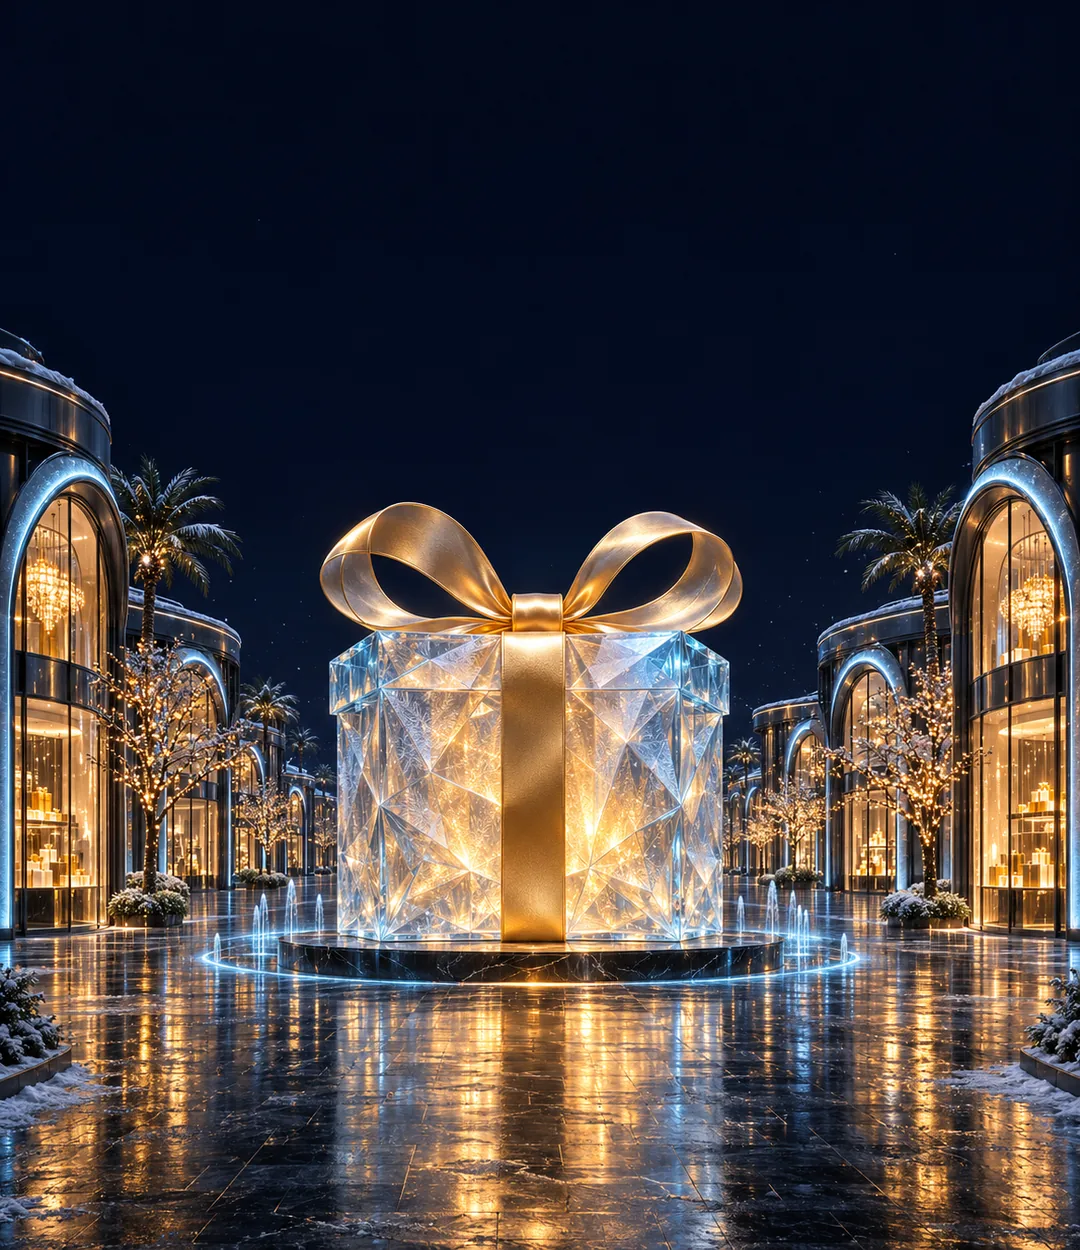
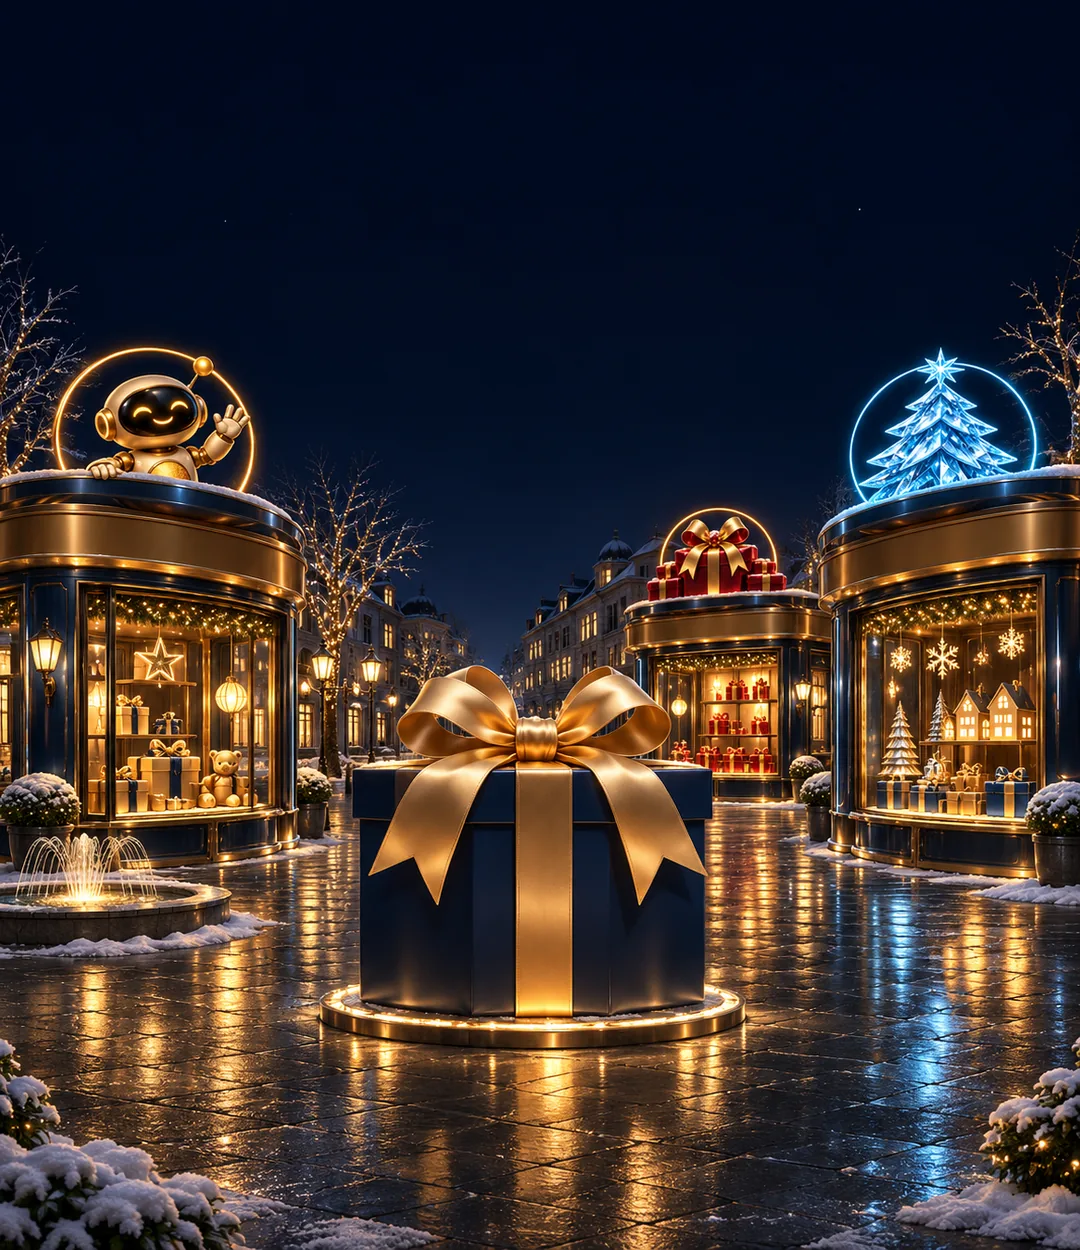
Nieuwe welkomstbanners (Nova) en een klein licht/donker-knopje in de kop (bouw volgt)
Claude-Session: https://claude.ai/code/session_014hCdRwFh3Gb6k4dNokQqAr

diff --git a/sjabloon.html b/sjabloon.html
@@ -29,12 +29,12 @@
   <link rel="preload" as="font" type="font/woff2" href="assets/fonts/manrope-600-latin.woff2" crossorigin>
   <link rel="preload" as="font" type="font/woff2" href="assets/fonts/playfair-display-500-latin.woff2" crossorigin>
   <link rel="stylesheet" href="assets/css/fonts.css">
-  <link rel="preload" as="script" href="assets/js/app.js?v=120497682121664" fetchpriority="high">
+  <link rel="preload" as="script" href="assets/js/app.js?v=128719811000733" fetchpriority="high">
   <link rel="preload" as="script" href="assets/js/data.js?v=177080654016218" fetchpriority="high">
   <link rel="preload" as="image" href="images/banners/banner-home-2026-mobiel.webp" media="(max-width: 759px)">
   <link rel="preload" as="image" href="images/banners/banner-home-2026-desktop.webp" media="(min-width: 760px)">
   <link rel="stylesheet" href="assets/css/stijl.css?v=262573359707277">
-  <link rel="stylesheet" href="assets/css/licht.css?v=195133312633918">
+  <link rel="stylesheet" href="assets/css/licht.css?v=114365066024980">
   <link rel="stylesheet" href="assets/css/straat.css?v=39420314589419">
   <!-- Snelheid (31-10-2026): de grote productlijst laadt los van de pagina (async, lage prioriteit): de tekst en foto's staan al in de HTML.
        app.js start pas als de lijst er is (seintje 'lk-producten' aan het eind van het bestand). -->
@@ -99,7 +99,7 @@
        Eerst alleen met ?proef=combi, nu voor iedereen (zie hieronder): de kop zoals hij was (aftellen, menu, logo, hartje, onderbalk) met de winkels eronder,
        en een donkere versie die de instelling van de telefoon of computer volgt (keuze in het menu: Automatisch, Licht of Donker; ook ?thema=donker|licht|auto).
        Het donkere bestand laadt alleen als de donkere versie aan staat. -->
-  <meta name="lk-donker" content="assets/css/donker.css?v=138893497131260">
+  <meta name="lk-donker" content="assets/css/donker.css?v=161265632977576">
   <!-- LIVE voor iedereen sinds 22-11-2026 09:18 (Marius: 'Dit is fantastisch go'). Zelf de lichte kop van 21-11 zien: ?proef=combi-uit (blijft onthouden; weer aan: ?proef=combi).
        Helemaal uit: window.LK_COMBI = false. -->
   <script>(function () { try { var h = document.documentElement, q = location.search, ls = null, uit = false;
@@ -118,7 +118,7 @@
        binnenkanten en rondjes van Nova. VOOR IEDEREEN AAN sinds 23-11-2026 (Marius: 'zet live als die klaar is'). Zelf de oude site zien: ?proef=nacht-uit (blijft onthouden; weer aan: ?proef=nacht).
        Wie in het menu bij Weergave zelf 'Licht' koos, krijgt de oude lichte site. Helemaal uit: window.LK_NACHT = false.
        Zet de donkere versie aan en laadt daarna nacht.css en nacht.js (wissel van de rondjes). Code: blok NACHT in straat.js. -->
-  <meta name="lk-nacht" content="assets/css/nacht.css?v=181005825452950">
+  <meta name="lk-nacht" content="assets/css/nacht.css?v=29087338344376">
   <meta name="lk-nacht-js" content="assets/js/nacht.js?v=150313274471501">
   <script>(function () { try { var h = document.documentElement, q = location.search, ls = null, aan = false;
     try { ls = window.localStorage; } catch (e) {}
@@ -182,6 +182,7 @@
 
       <div class="header-rechts">
         <a class="icoonknop alleen-desk" href="/zoek" aria-label="Zoeken" data-ic="zoek"></a>
+        <button type="button" class="icoonknop lichtknop" data-lichtknop aria-label="Lichte of donkere weergave" title="Licht of donker"><svg class="lk-zon" viewBox="0 0 24 24" width="20" height="20" fill="none" stroke="currentColor" stroke-width="1.8" stroke-linecap="round" aria-hidden="true"><circle cx="12" cy="12" r="4"/><path d="M12 2.5v2M12 19.5v2M4.6 4.6l1.4 1.4M18 18l1.4 1.4M2.5 12h2M19.5 12h2M4.6 19.4 6 18M18 6l1.4-1.4"/></svg><svg class="lk-maan" viewBox="0 0 24 24" width="19" height="19" fill="none" stroke="currentColor" stroke-width="1.8" stroke-linejoin="round" aria-hidden="true"><path d="M20 14.5A8 8 0 0 1 9.5 4a8 8 0 1 0 10.5 10.5Z"/></svg></button>
         <a class="icoonknop" href="/favorieten" aria-label="Mijn lijstje">
           <span data-ic="hart"></span>
           <span class="teller" data-favteller hidden>0</span>
@@ -281,8 +282,8 @@
   <script src="assets/js/data.js?v=177080654016218"></script>
   <script src="assets/js/teksten.js?v=248022023955020"></script>
   <script src="assets/js/gedeeld.js?v=40886362110320"></script>
-  <script src="assets/js/straat.js?v=42406514725526"></script>
-  <script src="assets/js/app.js?v=120497682121664"></script>
+  <script src="assets/js/straat.js?v=150366574996584"></script>
+  <script src="assets/js/app.js?v=128719811000733"></script>
   <!-- Bezoekersteller: GoatCounter (Nederlands, gratis, zonder cookies, bewaart geen persoonsgegevens).
        Telt de eerste pagina zelf; elke volgende pagina binnen de site telt app.js via 'lk-route'. -->
   <script data-goatcounter="https://leukekeuze.goatcounter.com/count" async src="//gc.zgo.at/count.js"></script>

diff --git a/assets/js/app.js b/assets/js/app.js
@@ -4383,6 +4383,17 @@
       if (nAan !== document.documentElement.classList.contains('nacht')) { location.reload(); return; } } catch (x3) {}
     themaZetten(); try { if (window.goatcounter && window.goatcounter.count) window.goatcounter.count({ path: 'weergave/' + b.getAttribute('data-thema'), title: 'Weergave', event: true }); } catch (x2) {}
   });
+  /* LICHTKNOP (24-11-2026, Marius: 'maak een makkelijke licht-knop op de site, subtiel, klein maar fijn'): zon/maan in de kop wisselt tussen de boulevard (donker) en de lichte site */
+  document.addEventListener('click', function (e) {
+    var b = e.target.closest && e.target.closest('[data-lichtknop]'); if (!b) return;
+    var naarLicht = document.documentElement.classList.contains('nacht') || document.documentElement.classList.contains('donker');
+    try {
+      if (naarLicht) { localStorage.setItem('lkthema', 'licht'); localStorage.setItem('lknacht', '0'); }
+      else { localStorage.setItem('lkthema', 'donker'); localStorage.removeItem('lknacht'); }
+    } catch (x) {}
+    try { if (window.goatcounter && window.goatcounter.count) window.goatcounter.count({ path: 'weergave/knop-' + (naarLicht ? 'licht' : 'donker'), title: 'Weergave', event: true }); } catch (x2) {}
+    setTimeout(function () { location.reload(); }, 80);
+  });
   function themaKnoppen() {
     if (!COMBI) return '';
     var k = themaKeuze(), knop = function (w, naam, uitleg) { return '<button type="button" data-thema="' + w + '" aria-pressed="' + (k === w ? 'true' : 'false') + '"><b>' + naam + '</b><small>' + uitleg + '</small></button>'; };

diff --git a/assets/js/straat.js b/assets/js/straat.js
@@ -643,8 +643,8 @@
       '<p class="stand"><b>' + st.open.length + ' winkels open</b> · ' + getal(st.totaal) + ' cadeaus' +
       (keuze ? ' · <button type="button" class="link" data-sh-naar-kies>andere keuze</button> · <a href="#straat" data-sh-kies>alles weer tonen</a>' : '') + '</p></section>';
     var h = opt.voor ? '<a class="terug" href="/">‹ Naar de hele Cadeaustraat</a>' + kop :
-      boven + '<section class="welkom nova"><div class="sh-hero"><picture><source media="(min-width:700px)" srcset="' + NB + (nacht() ? 'straat-nacht-computer' : 'straat-hero-computer') + '.webp">' +
-      '<img src="' + NB + (nacht() ? 'straat-nacht-telefoon' : 'straat-hero-telefoon') + '.webp" alt="" fetchpriority="high"></picture>' +
+      boven + '<section class="welkom nova"><div class="sh-hero"><picture><source media="(min-width:700px)" srcset="' + NB + (nacht() ? 'straat-nacht-computer' : 'straat-hero-computer') + '.webp?v=2411">' +
+      '<img src="' + NB + (nacht() ? 'straat-nacht-telefoon' : 'straat-hero-telefoon') + '.webp?v=2411" alt="" fetchpriority="high"></picture>' +
       '<h1 class="straatbord"><small>Welkom in de</small>Cadeaustraat</h1></div><div class="lampjes" aria-hidden="true"></div>' +
       '<p>Kies voor wie je zoekt. De straat zet dan alleen de winkels en cadeaus voor die persoon klaar.</p></section>' + kiezer(st) + naKies + kop;
     if (st.etalage.length) {

diff --git a/assets/css/licht.css b/assets/css/licht.css
@@ -3205,3 +3205,11 @@ html body .wzh-rond.wzh-icoon, html body .srt-st-rond.srt-vt-ico, html body .rh-
   .wzk-lijst { columns: 3; }
   .wzk-opties { grid-template-columns: 1fr 1.6fr auto; align-items: end; }
 }
+
+/* LICHTKNOP (24-11-2026): klein zonnetje of maantje in de kop; zon in de donkere boulevard (naar licht), maan in de lichte site (naar donker) */
+.lichtknop{background:none;border:0;cursor:pointer;opacity:.82;padding:0}
+.lichtknop:hover,.lichtknop:focus-visible{opacity:1}
+.lichtknop .lk-zon{display:none}
+html.nacht .lichtknop .lk-zon,html.donker .lichtknop .lk-zon{display:block}
+html.nacht .lichtknop .lk-maan,html.donker .lichtknop .lk-maan{display:none}
+html.nacht .lichtknop{color:#F2CB74}
